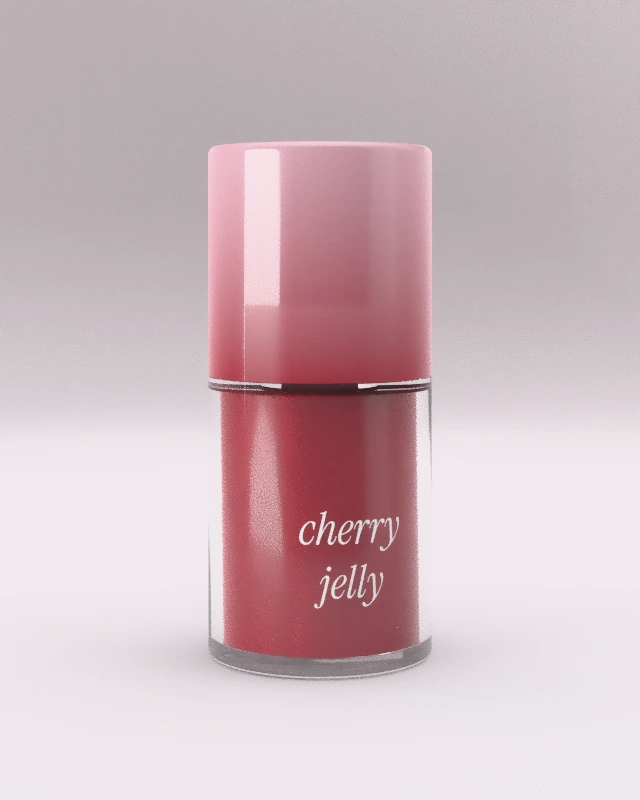
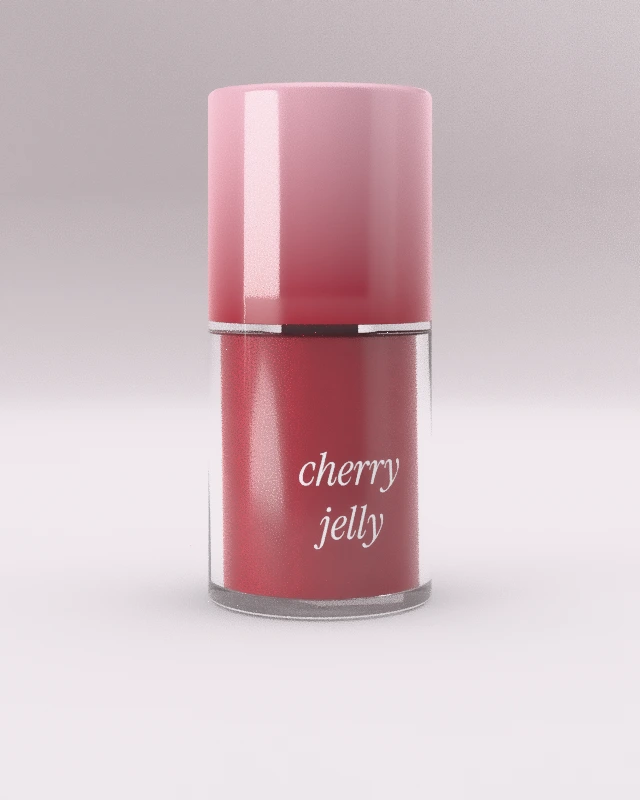
Archive: first cards re-rendered with the tube raised clear of the name bar

Changed region(s): [[0.2812, 0.0938, 0.7188, 0.875]]

diff --git a/js/pages/gallery.js b/js/pages/gallery.js
@@ -60,7 +60,7 @@
               style: { '--tint': CL.render.tintOf(design, 0.8) },
               onclick: () => setOpen(!card.classList.contains('is-open')),
             },
-              CL.h('div.sc-tube', null, CL.h('img', { src: `assets/archive/${tplId}.webp?v=17`, alt: t('templates.' + tplId), loading: 'lazy', decoding: 'async' })),
+              CL.h('div.sc-tube', null, CL.h('img', { src: `assets/archive/${tplId}.webp?v=18`, alt: t('templates.' + tplId), loading: 'lazy', decoding: 'async' })),
               CL.h('div.sc-bar', null,
                 CL.h('div.sc-title', null,
                   CL.h('h4', { text: t('templates.' + tplId) })

diff --git a/index.html b/index.html
@@ -105,7 +105,7 @@
   <script src="js/pages/home.js?v=36"></script>
   <script src="js/pages/design.js?v=24"></script>
   <script src="js/pages/editor.js?v=78"></script>
-  <script src="js/pages/gallery.js?v=34"></script>
+  <script src="js/pages/gallery.js?v=35"></script>
   <script src="js/pages/my-designs.js?v=15"></script>
 
   <script src="js/app.js?v=17"></script>
